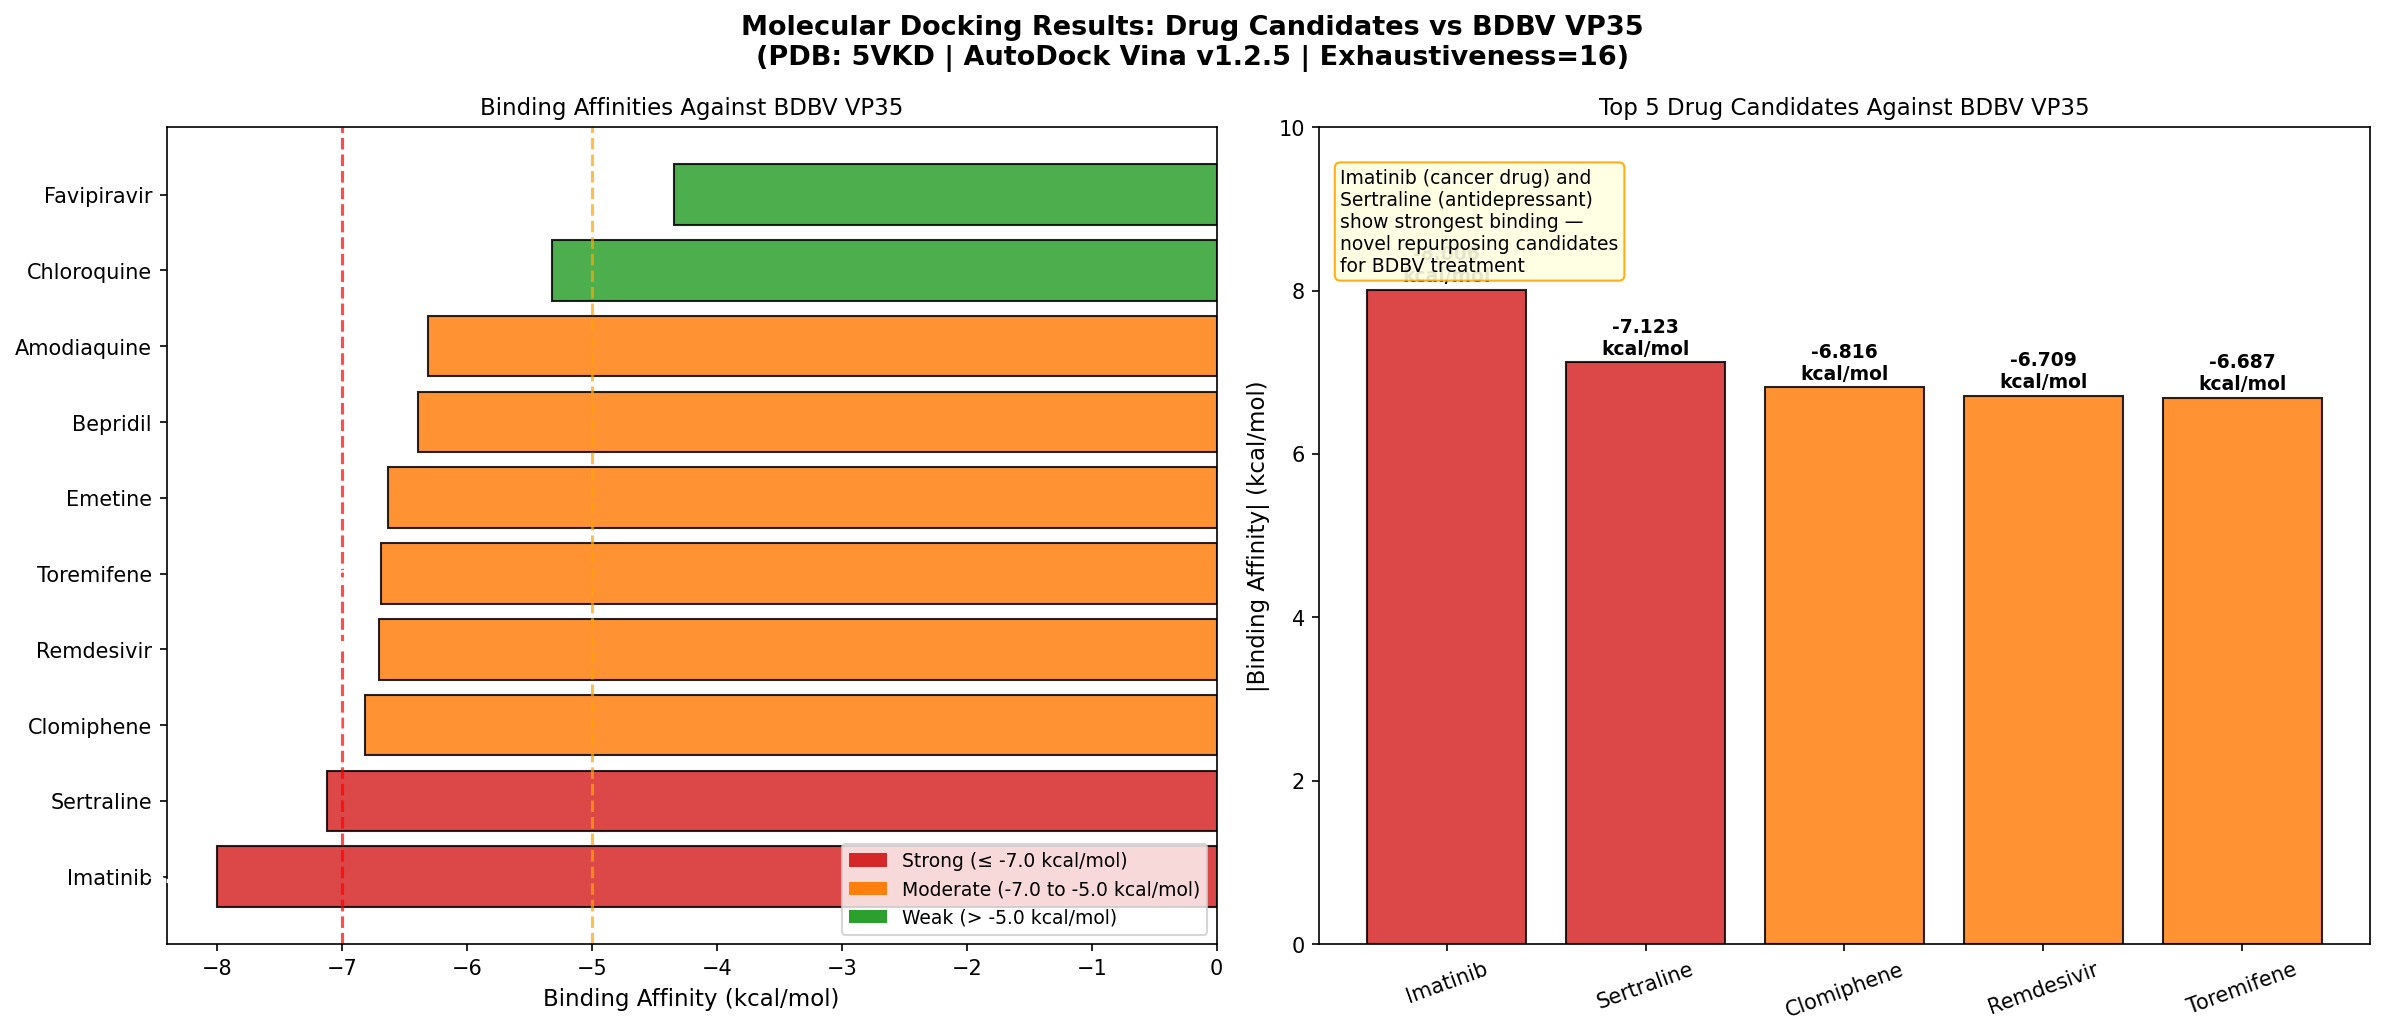
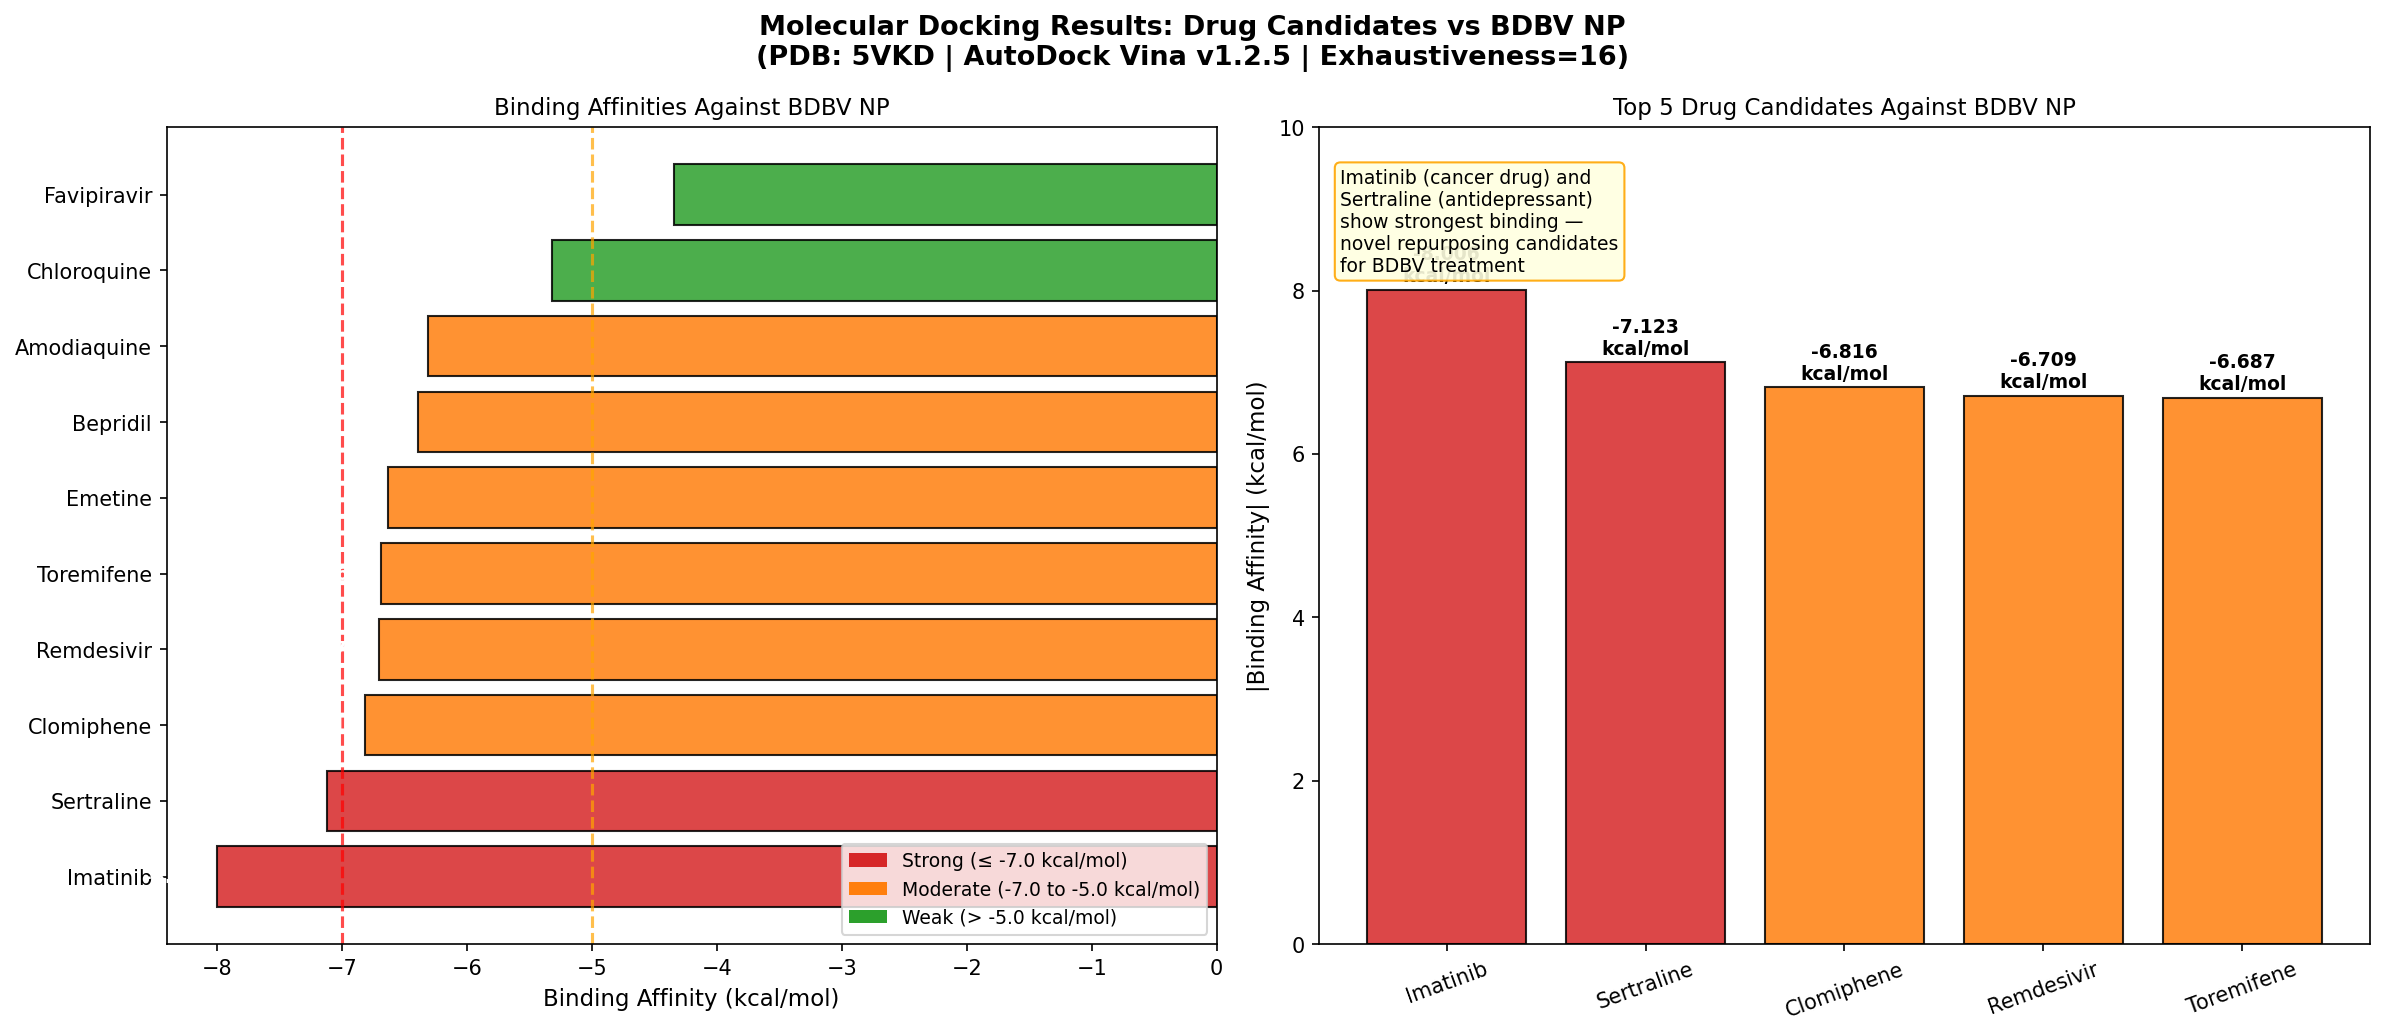
Fix protein target: 5VKD is BDBV NP (nucleoprotein), not VP35

Changed region(s): [[0.3104, 0.0, 0.6829, 0.0618], [0.6518, 0.0928, 0.8691, 0.1237], [0.1862, 0.0928, 0.3725, 0.1237]]

diff --git a/analysis6.py b/analysis6.py
@@ -19,13 +19,13 @@ for a in affinities:
     else: colors.append('#2CA02C')
 
 fig, axes = plt.subplots(1, 2, figsize=(16, 7))
-fig.suptitle('Molecular Docking Results: Drug Candidates vs BDBV VP35\n(PDB: 5VKD | AutoDock Vina v1.2.5 | Exhaustiveness=16)',
+fig.suptitle('Molecular Docking Results: Drug Candidates vs BDBV NP\n(PDB: 5VKD | AutoDock Vina v1.2.5 | Exhaustiveness=16)',
              fontsize=13, fontweight='bold')
 
 # Plot 1: Binding affinities
 bars = axes[0].barh(compounds, affinities, color=colors, alpha=0.85, edgecolor='black')
 axes[0].set_xlabel('Binding Affinity (kcal/mol)', fontsize=11)
-axes[0].set_title('Binding Affinities Against BDBV VP35', fontsize=11)
+axes[0].set_title('Binding Affinities Against BDBV NP', fontsize=11)
 axes[0].axvline(x=-7.0, color='red', linestyle='--', alpha=0.7, label='Strong binding threshold (-7.0)')
 axes[0].axvline(x=-5.0, color='orange', linestyle='--', alpha=0.7, label='Moderate binding threshold (-5.0)')
 axes[0].legend(fontsize=9)
@@ -49,7 +49,7 @@ top_affs = [abs(r[1]) for r in top5]
 bar_colors = ['#D62728', '#D62728', '#FF7F0E', '#FF7F0E', '#FF7F0E']
 bars2 = axes[1].bar(top_names, top_affs, color=bar_colors, alpha=0.85, edgecolor='black')
 axes[1].set_ylabel('|Binding Affinity| (kcal/mol)', fontsize=11)
-axes[1].set_title('Top 5 Drug Candidates Against BDBV VP35', fontsize=11)
+axes[1].set_title('Top 5 Drug Candidates Against BDBV NP', fontsize=11)
 axes[1].tick_params(axis='x', rotation=20)
 axes[1].set_ylim(0, 10)
 

diff --git a/scripts/06_docking_visualization.py b/scripts/06_docking_visualization.py
@@ -19,13 +19,13 @@ for a in affinities:
     else: colors.append('#2CA02C')
 
 fig, axes = plt.subplots(1, 2, figsize=(16, 7))
-fig.suptitle('Molecular Docking Results: Drug Candidates vs BDBV VP35\n(PDB: 5VKD | AutoDock Vina v1.2.5 | Exhaustiveness=16)',
+fig.suptitle('Molecular Docking Results: Drug Candidates vs BDBV NP\n(PDB: 5VKD | AutoDock Vina v1.2.5 | Exhaustiveness=16)',
              fontsize=13, fontweight='bold')
 
 # Plot 1: Binding affinities
 bars = axes[0].barh(compounds, affinities, color=colors, alpha=0.85, edgecolor='black')
 axes[0].set_xlabel('Binding Affinity (kcal/mol)', fontsize=11)
-axes[0].set_title('Binding Affinities Against BDBV VP35', fontsize=11)
+axes[0].set_title('Binding Affinities Against BDBV NP', fontsize=11)
 axes[0].axvline(x=-7.0, color='red', linestyle='--', alpha=0.7, label='Strong binding threshold (-7.0)')
 axes[0].axvline(x=-5.0, color='orange', linestyle='--', alpha=0.7, label='Moderate binding threshold (-5.0)')
 axes[0].legend(fontsize=9)
@@ -49,7 +49,7 @@ top_affs = [abs(r[1]) for r in top5]
 bar_colors = ['#D62728', '#D62728', '#FF7F0E', '#FF7F0E', '#FF7F0E']
 bars2 = axes[1].bar(top_names, top_affs, color=bar_colors, alpha=0.85, edgecolor='black')
 axes[1].set_ylabel('|Binding Affinity| (kcal/mol)', fontsize=11)
-axes[1].set_title('Top 5 Drug Candidates Against BDBV VP35', fontsize=11)
+axes[1].set_title('Top 5 Drug Candidates Against BDBV NP', fontsize=11)
 axes[1].tick_params(axis='x', rotation=20)
 axes[1].set_ylim(0, 10)
 

diff --git a/dock.py b/dock.py
@@ -15,7 +15,7 @@ ligands = ['Remdesivir','Favipiravir','Toremifene','Clomiphene',
 os.makedirs('results/docking', exist_ok=True)
 results = {}
 
-print("=== AUTODOCK VINA DOCKING: BDBV VP35 (5VKD Chain A) ===\n")
+print("=== AUTODOCK VINA DOCKING: BDBV NP (5VKD Chain A) ===\n")
 
 for ligand in ligands:
     lig_path = f'ligands/{ligand}.pdbqt'

diff --git a/scripts/07_autodock_vina_docking.py b/scripts/07_autodock_vina_docking.py
@@ -15,7 +15,7 @@ ligands = ['Remdesivir','Favipiravir','Toremifene','Clomiphene',
 os.makedirs('results/docking', exist_ok=True)
 results = {}
 
-print("=== AUTODOCK VINA DOCKING: BDBV VP35 (5VKD Chain A) ===\n")
+print("=== AUTODOCK VINA DOCKING: BDBV NP (5VKD Chain A) ===\n")
 
 for ligand in ligands:
     lig_path = f'ligands/{ligand}.pdbqt'

diff --git a/README.md b/README.md
@@ -1,6 +1,6 @@
 # BDBV Computational Drug Discovery 2026
 
-## In Silico Comparative Genomic Analysis and Molecular Docking of Antiviral Compounds Against Bundibugyo Ebolavirus VP35 in the Context of the 2026 PHEIC Outbreak
+## In Silico Comparative Genomic Analysis and Molecular Docking of Antiviral Compounds Against Bundibugyo Ebolavirus Nucleoprotein (NP) in the Context of the 2026 PHEIC Outbreak
 
 **Author:** Yedavalli Lakshmi Sai Varshini
 
@@ -62,7 +62,7 @@ On May 17, 2026, WHO declared a Public Health Emergency of International Concern
 
 ## Key Results
 
-### Docking Results — BDBV VP35 (PDB: 5VKD)
+### Docking Results — BDBV NP (PDB: 5VKD)
 
 | Rank | Compound | Affinity (kcal/mol) | Interpretation |
 |------|----------|---------------------|----------------|
